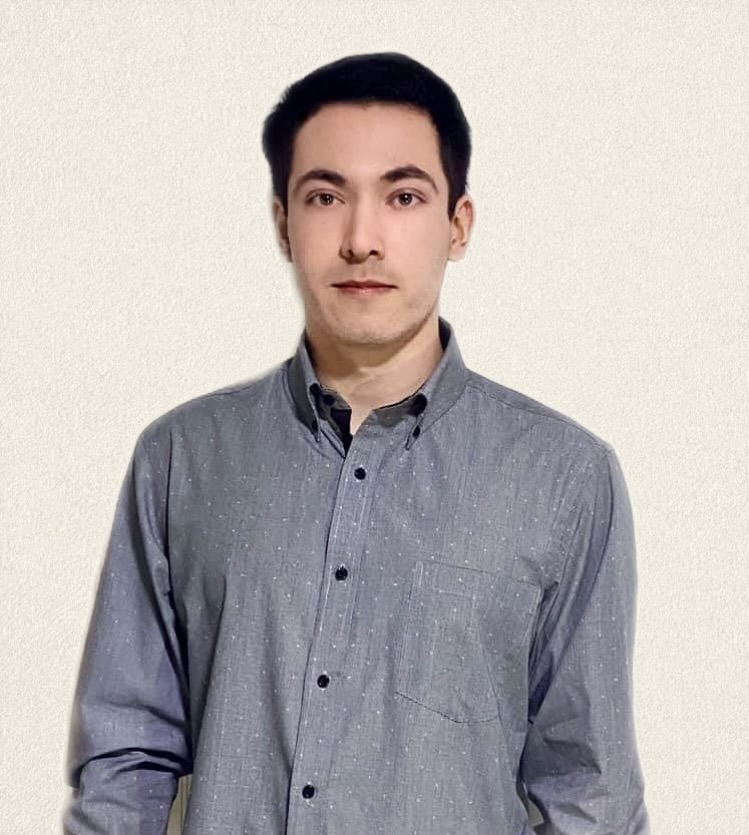
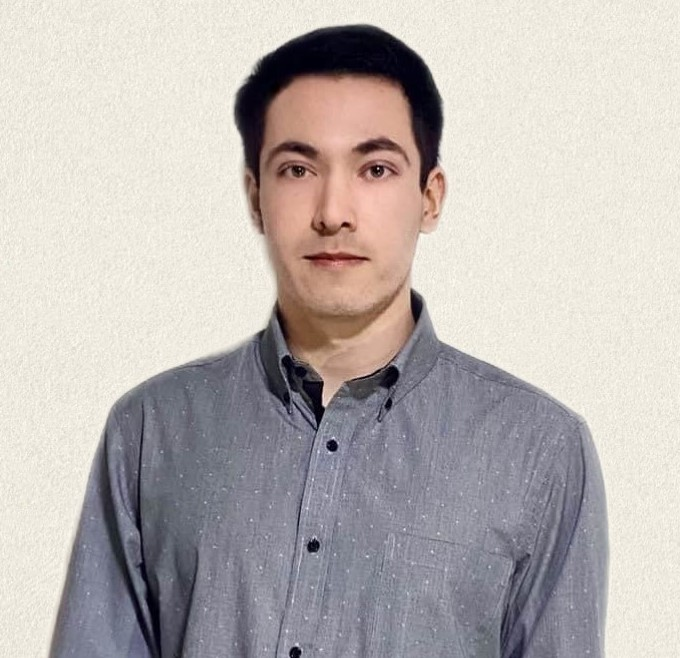
foto 2

Changed region(s): [[0.0618, 0.0304, 0.8956, 1.0]]

diff --git a/author/daniel-pereda/index.html b/author/daniel-pereda/index.html
@@ -240,8 +240,8 @@
   <meta property="og:site_name" content="Danpereda">
   <meta property="og:url" content="https://danpereda.github.io/author/daniel-pereda/">
   <meta property="og:title" content="Daniel Pereda | Danpereda">
-  <meta property="og:description" content="PhD Student"><meta property="og:image" content="https://danpereda.github.io/author/daniel-pereda/avatar_hu687690ea1d43ccc351c01f64e06872d6_145466_270x270_fill_q90_lanczos_center.jpg">
-  <meta property="twitter:image" content="https://danpereda.github.io/author/daniel-pereda/avatar_hu687690ea1d43ccc351c01f64e06872d6_145466_270x270_fill_q90_lanczos_center.jpg"><meta property="og:locale" content="en-us">
+  <meta property="og:description" content="PhD Student"><meta property="og:image" content="https://danpereda.github.io/author/daniel-pereda/avatar_hu589823eb8db5ccba2d36240fb24d55c6_129432_270x270_fill_q90_lanczos_center.jpg">
+  <meta property="twitter:image" content="https://danpereda.github.io/author/daniel-pereda/avatar_hu589823eb8db5ccba2d36240fb24d55c6_129432_270x270_fill_q90_lanczos_center.jpg"><meta property="og:locale" content="en-us">
   
     
   
@@ -497,7 +497,7 @@
 
       
       
-      <img class="avatar avatar-circle" src="/author/daniel-pereda/avatar_hu687690ea1d43ccc351c01f64e06872d6_145466_270x270_fill_q90_lanczos_center.jpg" alt="Daniel Pereda">
+      <img class="avatar avatar-circle" src="/author/daniel-pereda/avatar_hu589823eb8db5ccba2d36240fb24d55c6_129432_270x270_fill_q90_lanczos_center.jpg" alt="Daniel Pereda">
       
 
       <div class="portrait-title">

diff --git a/post/test/index.html b/post/test/index.html
@@ -757,7 +757,7 @@
     <div class="media author-card content-widget-hr">
       
         
-        <img class="avatar mr-3 avatar-circle" src="/author/daniel-pereda/avatar_hu687690ea1d43ccc351c01f64e06872d6_145466_270x270_fill_q90_lanczos_center.jpg" alt="Daniel Pereda">
+        <img class="avatar mr-3 avatar-circle" src="/author/daniel-pereda/avatar_hu589823eb8db5ccba2d36240fb24d55c6_129432_270x270_fill_q90_lanczos_center.jpg" alt="Daniel Pereda">
       
 
       <div class="media-body">

diff --git a/talk/pgmo/index.html b/talk/pgmo/index.html
@@ -763,7 +763,7 @@
     <div class="media author-card content-widget-hr">
       
         
-        <img class="avatar mr-3 avatar-circle" src="/author/daniel-pereda/avatar_hu687690ea1d43ccc351c01f64e06872d6_145466_270x270_fill_q90_lanczos_center.jpg" alt="Daniel Pereda">
+        <img class="avatar mr-3 avatar-circle" src="/author/daniel-pereda/avatar_hu589823eb8db5ccba2d36240fb24d55c6_129432_270x270_fill_q90_lanczos_center.jpg" alt="Daniel Pereda">
       
 
       <div class="media-body">

diff --git a/index.html b/index.html
@@ -559,7 +559,7 @@
 
       
       
-      <img class="avatar avatar-circle" src="/author/daniel-pereda/avatar_hu687690ea1d43ccc351c01f64e06872d6_145466_270x270_fill_q90_lanczos_center.jpg" alt="Daniel Pereda">
+      <img class="avatar avatar-circle" src="/author/daniel-pereda/avatar_hu589823eb8db5ccba2d36240fb24d55c6_129432_270x270_fill_q90_lanczos_center.jpg" alt="Daniel Pereda">
       
 
       <div class="portrait-title">
